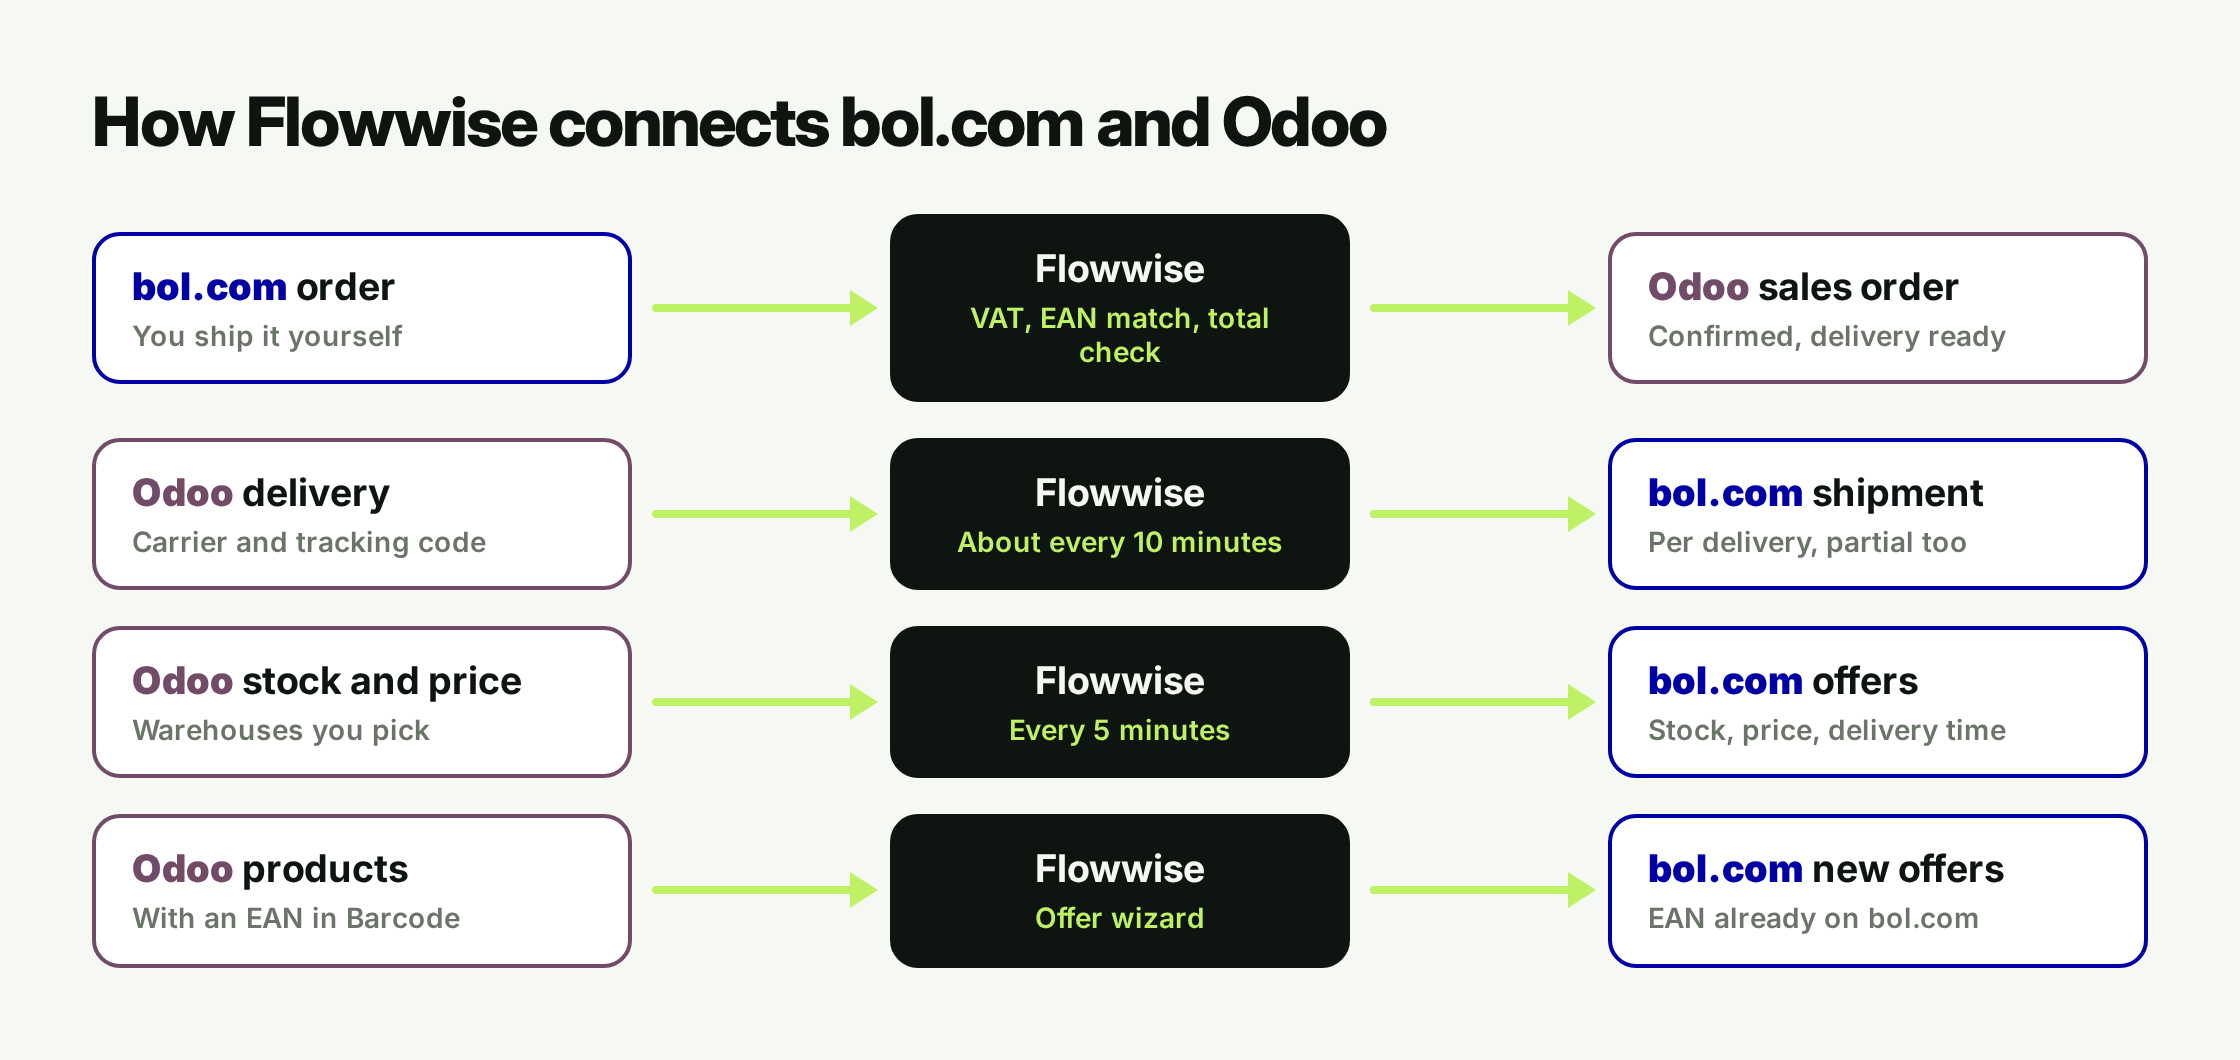
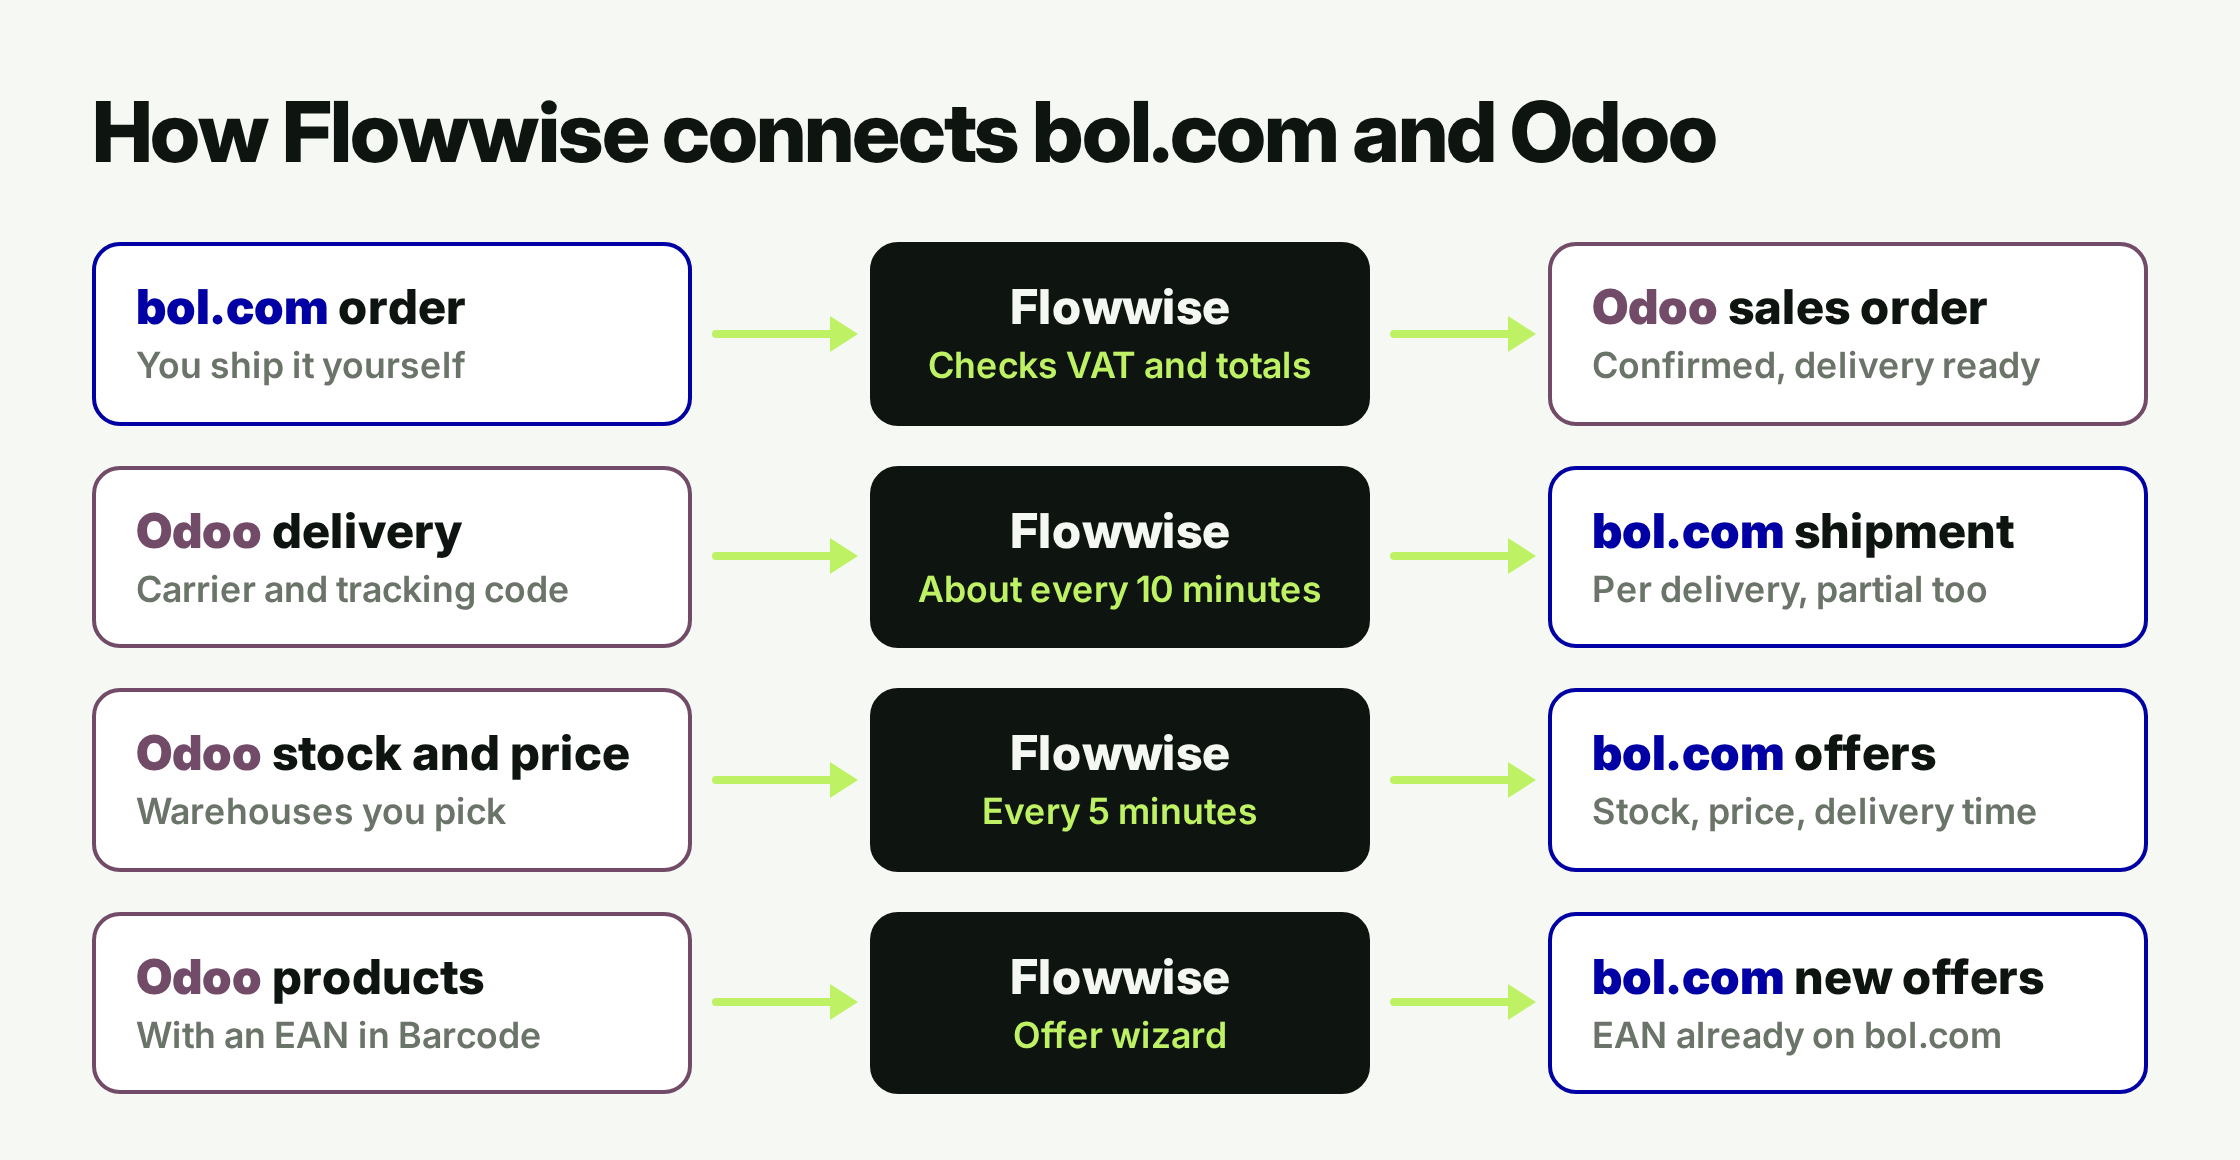
Store page: larger text on the cover and images, no returns question

diff --git a/flowwise_bol_connector/static/description/index.html b/flowwise_bol_connector/static/description/index.html
@@ -103,8 +103,6 @@
         <p>Yes. Connect Kaufland as a second sync and those orders reach Odoo the same way.</p>
         <h4 style="font-weight: 700;">Can Flowwise create a product bol.com doesn't sell yet?</h4>
         <p>Not from Odoo yet. Flowwise creates offers for EANs that bol.com already has in its catalogue.</p>
-        <h4 style="font-weight: 700;">Where do I handle returns?</h4>
-        <p>At bol.com and in Odoo. Flowwise does not create returns in Odoo.</p>
     </div>
 </section>
 

diff --git a/flowwise_bol_connector/__manifest__.py b/flowwise_bol_connector/__manifest__.py
@@ -1,7 +1,7 @@
 {
     "name": "Bol.com Connector",
     "summary": "Bol.com orders as sales orders in Odoo, tracking back to bol.com, and stock, prices and offers from Odoo. Needs a Flowwise subscription.",
-    "version": "19.0.1.3.0",
+    "version": "19.0.1.3.1",
     "category": "Sales/Sales",
     "author": "NewCraft",
     "website": "https://flowwise.dev/koppelingen/bol-com/odoo/",
